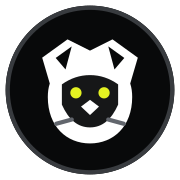
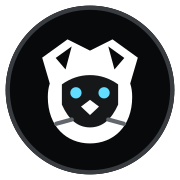
Replace yellow accents with electric cyan

Changed region(s): [[0.5278, 0.4722, 0.6111, 0.5556], [0.3889, 0.4722, 0.4722, 0.5556]]

diff --git a/src/styles/global.css b/src/styles/global.css
@@ -1,7 +1,7 @@
 /* ==========================================================================
    Design system — Philips Bek portfolio
    Restyled to Linear's "midnight precision instrument" aesthetic:
-   near-black surfaces, paper-white type, a single acid-lime accent used
+   near-black surfaces, paper-white type, a single electric-cyan accent used
    sparingly, hairline borders instead of shadows, tight Inter typography.
    ========================================================================== */
 
@@ -17,7 +17,7 @@
   --color-mist: #d0d6e0;
   --color-bone: #e5e5e6;
   --color-paper: #ffffff;
-  --color-acid-lime: #e4f222;
+  --color-neon-blue: #62ddff;
   --color-pulse-green: #27a644;
   --color-coral-red: #eb5757;
   --color-signal-teal: #02b8cc;
@@ -35,8 +35,8 @@
   --line: var(--color-graphite);     /* hairline borders */
   --line-strong: var(--color-smoke); /* higher-contrast edges */
 
-  --accent: var(--color-acid-lime);
-  --accent-hover: #eef85a;
+  --accent: var(--color-neon-blue);
+  --accent-hover: #9beaff;
   --accent-ink: #0a0b0d; /* text on the lime button — stays dark in both themes */
   --accent-soft: rgba(228, 242, 34, 0.10);
 
@@ -193,7 +193,7 @@ ol {
 }
 
 ::selection {
-  background: var(--color-acid-lime);
+  background: var(--color-neon-blue);
   color: var(--color-void);
 }
 
@@ -228,7 +228,7 @@ ol {
   left: 1rem;
   top: -100px;
   z-index: 1000;
-  background: var(--color-acid-lime);
+  background: var(--color-neon-blue);
   color: var(--accent-ink);
   padding: 0.65rem 1rem;
   border-radius: 6px;
@@ -350,7 +350,7 @@ ol {
   height: 1.02em;
 }
 .btn--primary {
-  background: var(--color-acid-lime);
+  background: var(--color-neon-blue);
   color: var(--accent-ink);
   box-shadow: rgba(0, 0, 0, 0.1) 0 5px 2px, rgba(0, 0, 0, 0.2) 0 1px 1px;
 }
@@ -573,7 +573,7 @@ ol {
   right: 0;
   height: 2px;
   z-index: 200;
-  background: var(--color-acid-lime);
+  background: var(--color-neon-blue);
   transform: scaleX(var(--p, 0));
   transform-origin: 0 50%;
   pointer-events: none;

diff --git a/public/sw.js b/public/sw.js
@@ -1,9 +1,9 @@
 // Simple offline-capable service worker (no build tooling / dependencies).
-const VERSION = 'pb-v2';
+const VERSION = 'pb-v3';
 const STATIC_CACHE = `${VERSION}-static`;
 const PAGE_CACHE = `${VERSION}-pages`;
 const OFFLINE_URL = '/offline';
-const PRECACHE = ['/', OFFLINE_URL, '/favicon.svg?v=3', '/manifest.webmanifest?v=3'];
+const PRECACHE = ['/', OFFLINE_URL, '/favicon.svg?v=4', '/manifest.webmanifest?v=4'];
 
 self.addEventListener('install', (event) => {
   event.waitUntil(
